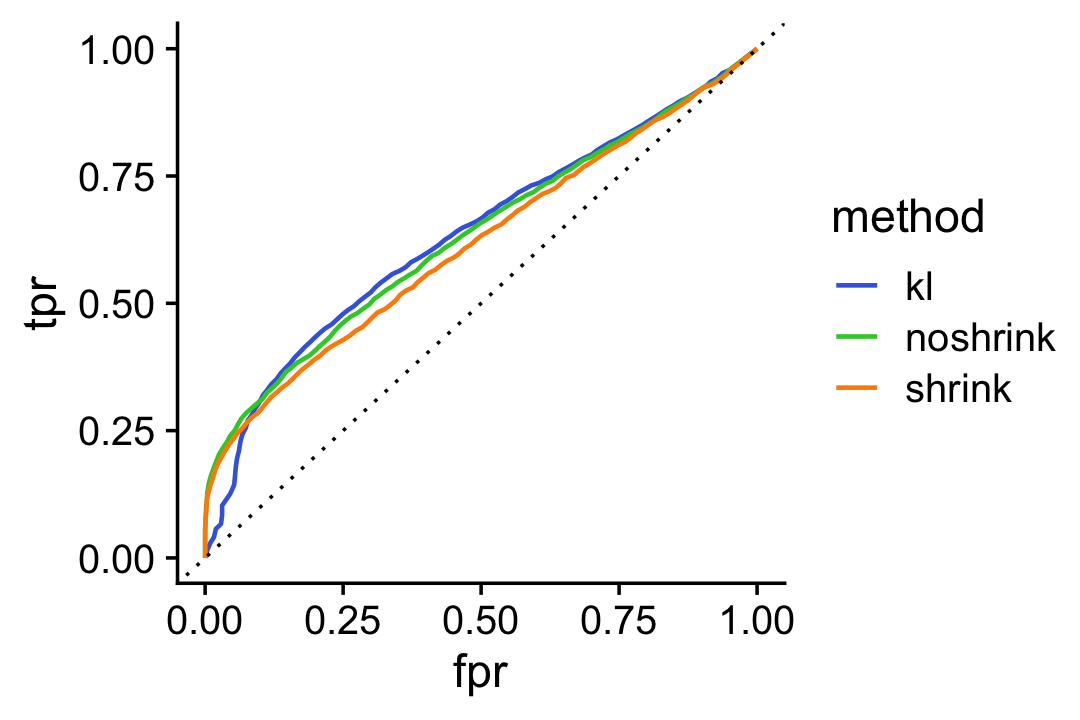
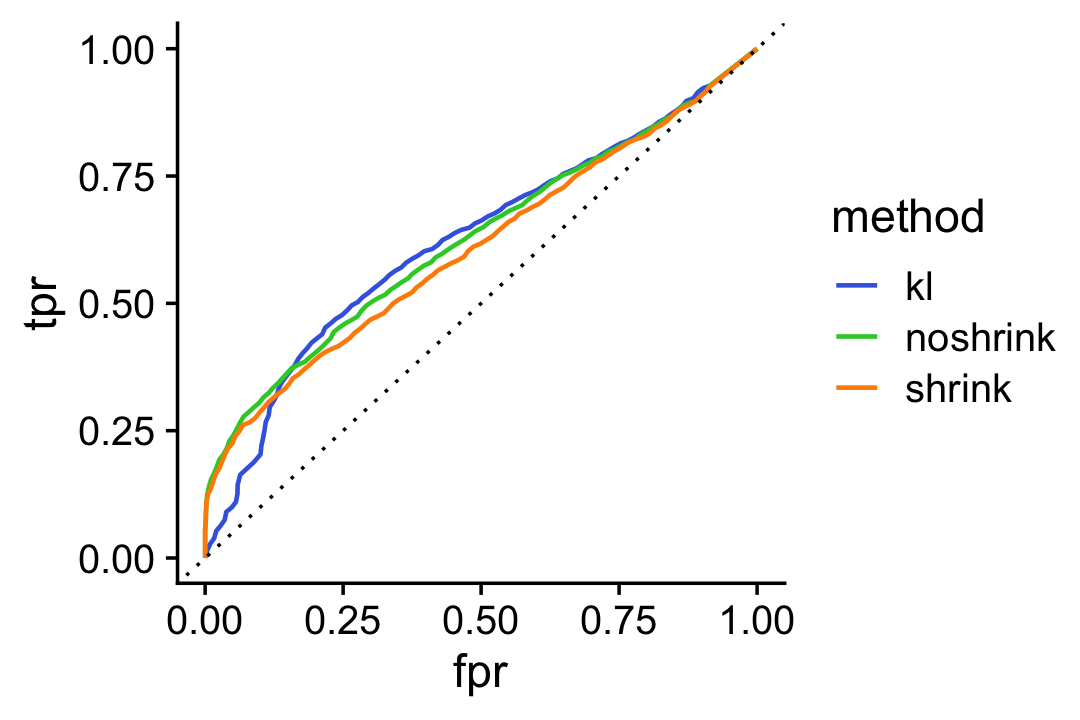
Fixed ROC curves in de_analysis_detailed_look analysis.

Changed region(s): [[0.1833, 0.0917, 0.6722, 0.7333]]

diff --git a/docs/de_analysis_detailed_look.html b/docs/de_analysis_detailed_look.html
@@ -429,16 +429,16 @@ fit-poisson-nmf
 <div class="panel panel-default">
 <div class="panel-heading">
 <p class="panel-title">
-<a data-toggle="collapse" data-parent="#workflowr-checks" href="#strongRepositoryversionstrongahrefhttpsgithubcomstephenslabsinglecelltopicstree473b08590f0282b55f223df7199837fb44e9f39btargetblank473b085a"> <span class="glyphicon glyphicon-ok text-success" aria-hidden="true"></span> <strong>Repository version:</strong> <a href="https://github.com/stephenslab/single-cell-topics/tree/473b08590f0282b55f223df7199837fb44e9f39b" target="_blank">473b085</a> </a>
+<a data-toggle="collapse" data-parent="#workflowr-checks" href="#strongRepositoryversionstrongahrefhttpsgithubcomstephenslabsinglecelltopicstreebd52791297b79fa16f492ed5f3d262d72eb0f604targetblankbd52791a"> <span class="glyphicon glyphicon-ok text-success" aria-hidden="true"></span> <strong>Repository version:</strong> <a href="https://github.com/stephenslab/single-cell-topics/tree/bd52791297b79fa16f492ed5f3d262d72eb0f604" target="_blank">bd52791</a> </a>
 </p>
 </div>
[2 lines of base64/hex data omitted]
 <div class="panel-body">
 <p>
 Great! You are using Git for version control. Tracking code development and connecting the code version to the results is critical for reproducibility.
 </p>
 <p>
-The results in this page were generated with repository version <a href="https://github.com/stephenslab/single-cell-topics/tree/473b08590f0282b55f223df7199837fb44e9f39b" target="_blank">473b085</a>. See the <em>Past versions</em> tab to see a history of the changes made to the R Markdown and HTML files.
+The results in this page were generated with repository version <a href="https://github.com/stephenslab/single-cell-topics/tree/bd52791297b79fa16f492ed5f3d262d72eb0f604" target="_blank">bd52791</a>. See the <em>Past versions</em> tab to see a history of the changes made to the R Markdown and HTML files.
 </p>
 <p>
 Note that you need to be careful to ensure that all relevant files for the analysis have been committed to Git prior to generating the results (you can use <code>wflow_publish</code> or <code>wflow_git_commit</code>). workflowr only checks the R Markdown file, but you know if there are other scripts or data files that it depends on. Below is the status of the Git repository when the results were generated:
@@ -505,6 +505,40 @@ Message
 </tr>
 </thead>
 <tbody>
+<tr>
+<td>
+Rmd
+</td>
+<td>
+<a href="https://github.com/stephenslab/single-cell-topics/blob/bd52791297b79fa16f492ed5f3d262d72eb0f604/analysis/de_analysis_detailed_look.Rmd" target="_blank">bd52791</a>
+</td>
+<td>
+Peter Carbonetto
+</td>
+<td>
+2021-10-26
+</td>
+<td>
+workflowr::wflow_publish(“de_analysis_detailed_look.Rmd”, verbose = TRUE)
+</td>
+</tr>
+<tr>
+<td>
+html
+</td>
+<td>
+<a href="https://rawcdn.githack.com/stephenslab/single-cell-topics/803d463f4f65a9424ac3d1136a33a3e7a1c361af/docs/de_analysis_detailed_look.html" target="_blank">803d463</a>
+</td>
+<td>
+Peter Carbonetto
+</td>
+<td>
+2021-10-26
+</td>
+<td>
+Made a few small revisions to the de_analysis_detailed_look analysis.
+</td>
+</tr>
 <tr>
 <td>
 Rmd
@@ -2110,10 +2144,11 @@ Peter Carbonetto
 </table>
 </div>
 </div>
-<p>For a different perspective we also show the ROC curve comparinig the true positive rate (TPR) against the false positive rate (FPR):</p>
-<pre class="r"><code>pdat1 &lt;- create_roc_curve(-D[,2],nonzero_lfc,length.out = 100)
-pdat2 &lt;- create_roc_curve(-de.noshrink$lpval[,2],nonzero_lfc,length.out = 100)
-pdat3 &lt;- create_roc_curve(-de$lpval[,2],nonzero_lfc,length.out = 100)
+<p>For a different perspective we also show the ROC curve comparing the true positive rate (TPR) against the false positive rate (FPR):</p>
+<pre class="r"><code>pdat1 &lt;- create_roc_curve(-D[i,2],nonzero_lfc[i],length.out = 100)
+pdat2 &lt;- create_roc_curve(-de.noshrink$lpval[i,2],nonzero_lfc[i],
+                          length.out = 100)
+pdat3 &lt;- create_roc_curve(-de$lpval[i,2],nonzero_lfc[i],length.out = 100)
 pdat  &lt;- rbind(cbind(pdat1,method = &quot;kl&quot;),
                cbind(pdat2,method = &quot;noshrink&quot;),
                cbind(pdat3,method = &quot;shrink&quot;))
@@ -2601,6 +2636,17 @@ Date
 </tr>
 </thead>
 <tbody>
+<tr>
+<td>
+<a href="https://github.com/stephenslab/single-cell-topics/blob/803d463f4f65a9424ac3d1136a33a3e7a1c361af/docs/figure/de_analysis_detailed_look.Rmd/fasttopics-vs-deseq2-roc-1.png" target="_blank">803d463</a>
+</td>
+<td>
+Peter Carbonetto
+</td>
+<td>
+2021-10-26
+</td>
+</tr>
 <tr>
 <td>
 <a href="https://github.com/stephenslab/single-cell-topics/blob/b7503caa46b8ec7259f7fadd1b7ed59cd2c57864/docs/figure/de_analysis_detailed_look.Rmd/fasttopics-vs-deseq2-roc-1.png" target="_blank">b7503ca</a>
